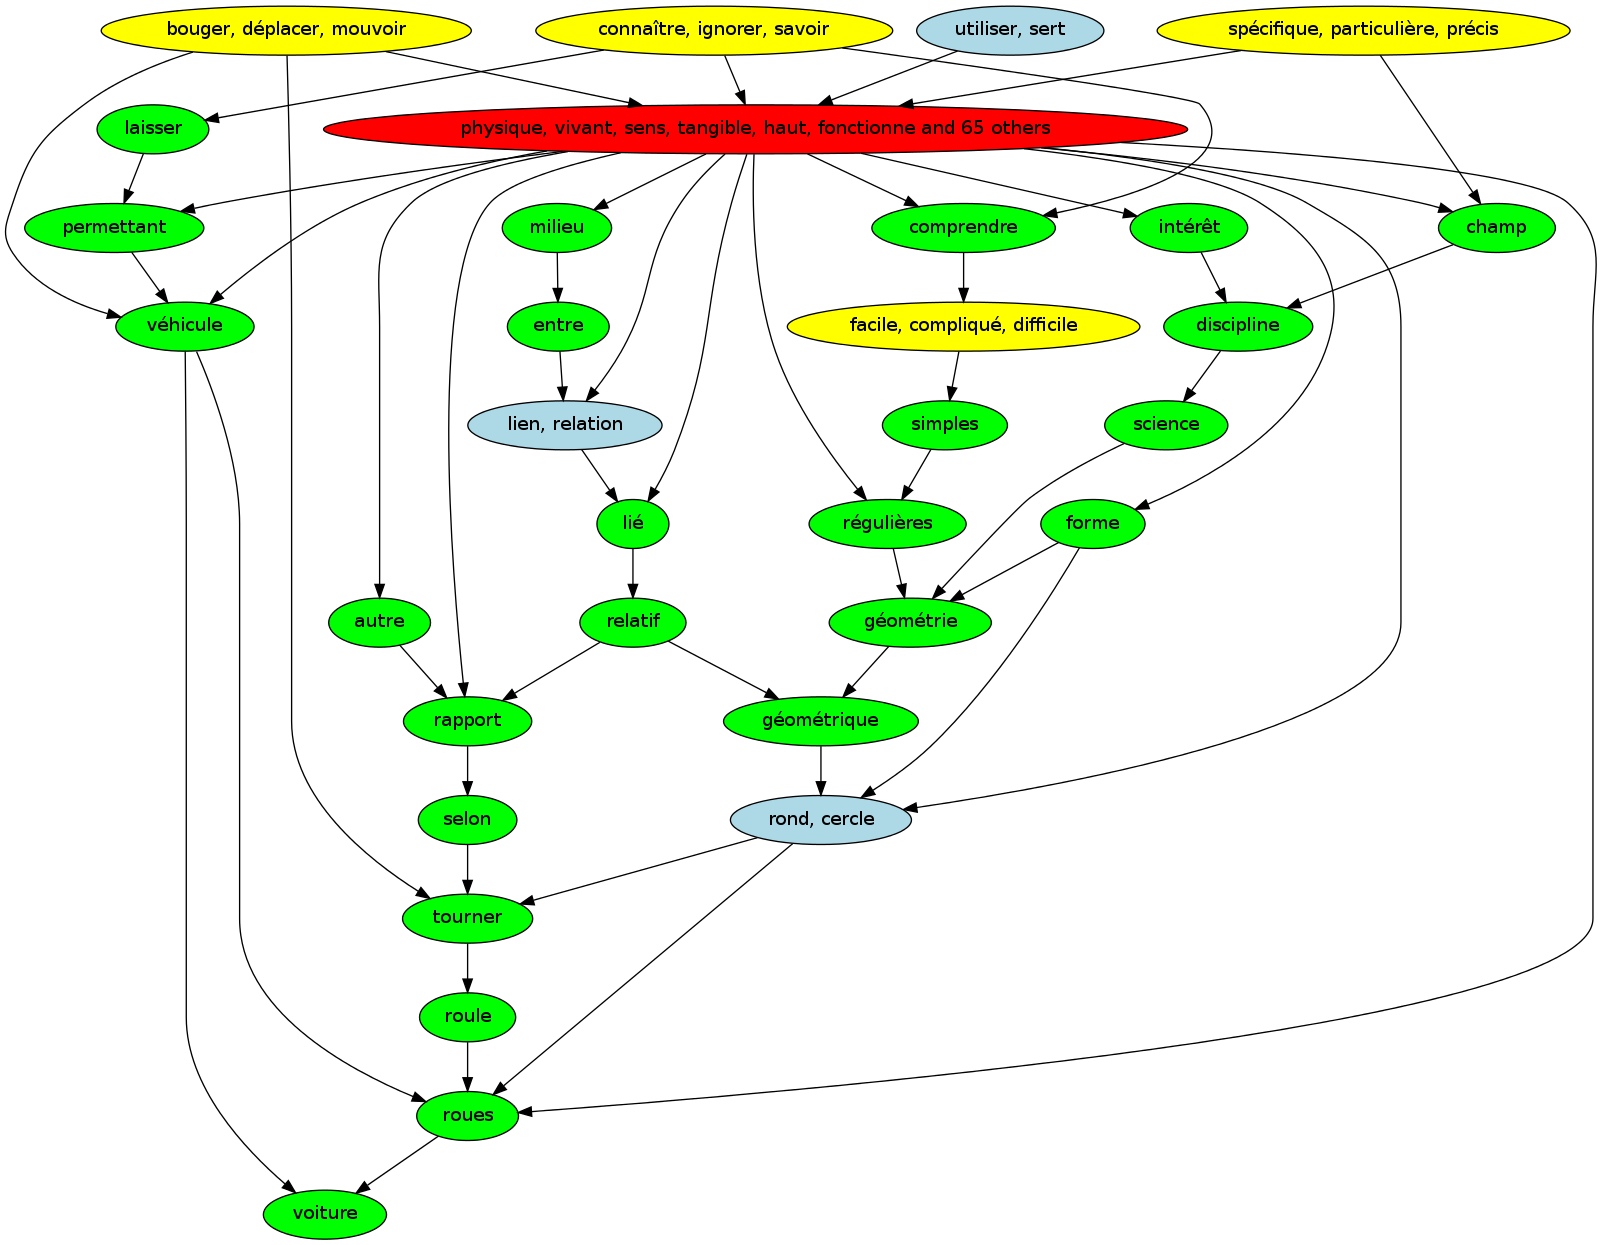
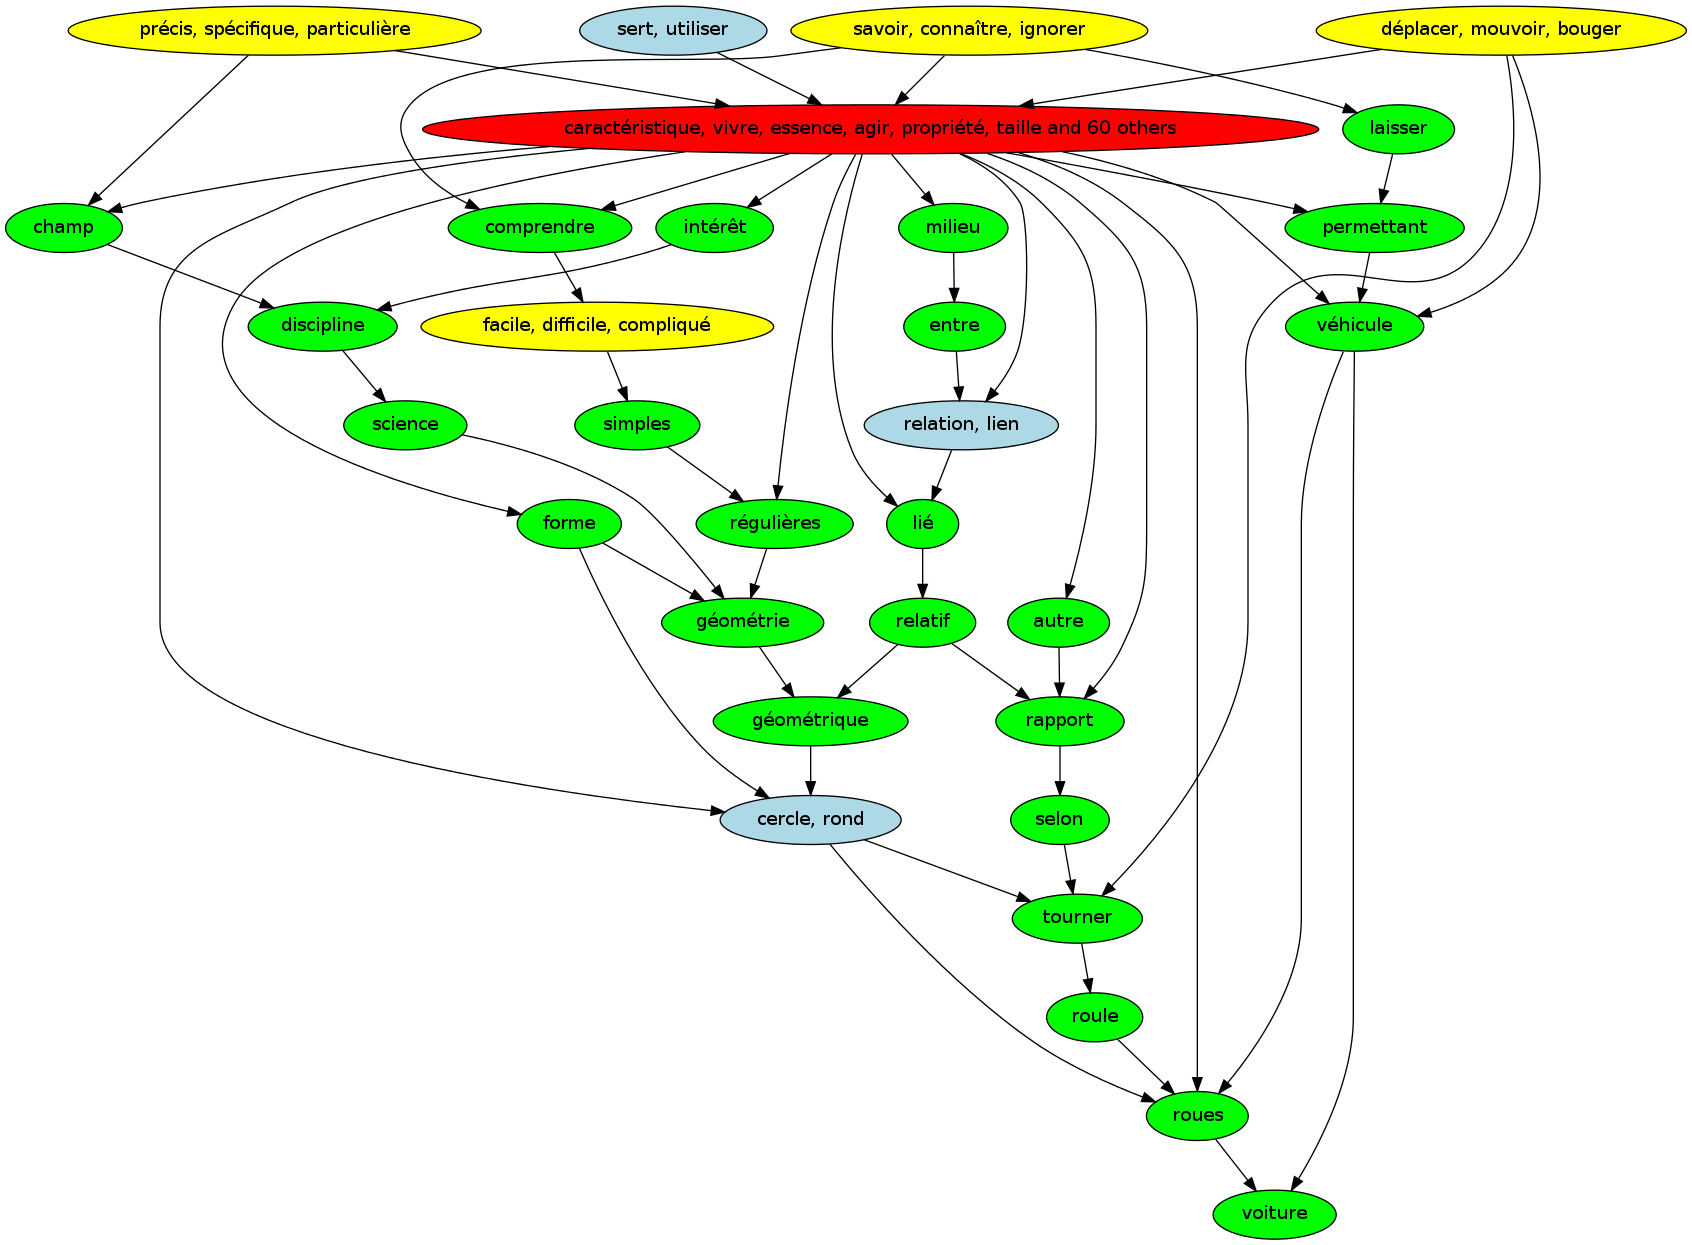
fixed count bug

diff --git a/tp1-condensation/graphviz.py b/tp1-condensation/graphviz.py
@@ -22,7 +22,7 @@ def tupleToString(tuple):
             string += str(tuple[i])
 
     if len(tuple) > 10:
-        string += " and " + str(len(tuple)-1) + " others"
+        string += " and " + str(len(tuple)- len(tuple) % 10) + " others"
     return string
 
 def getColor(tuple):
